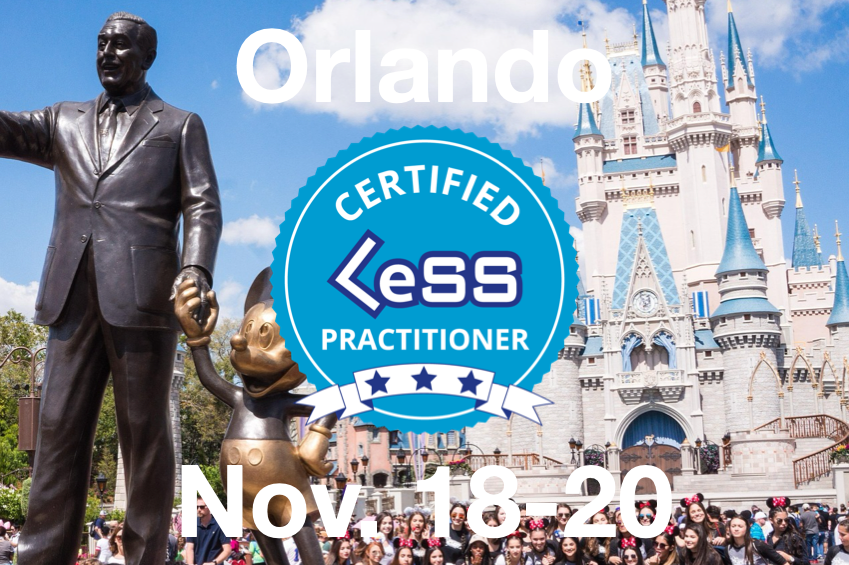
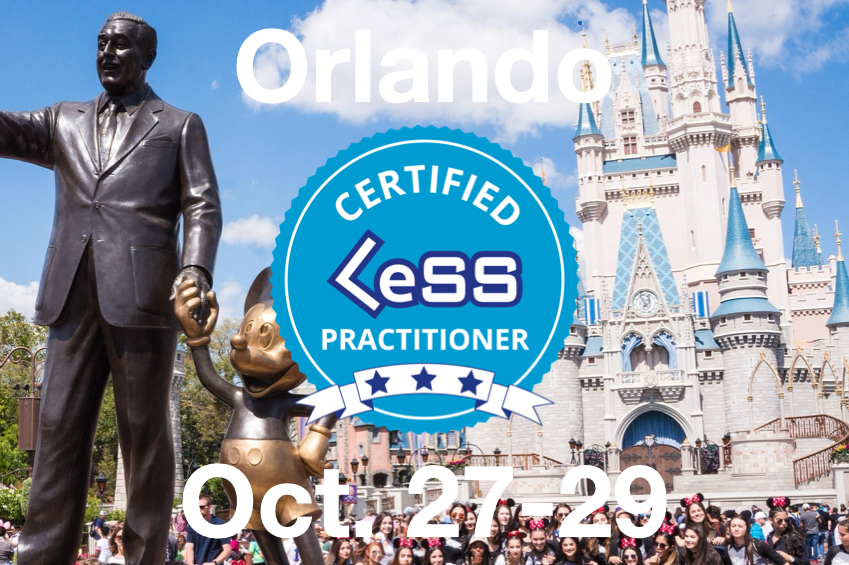
went live with Orlando

Changed region(s): [[0.2144, 0.8124, 0.6125, 0.9628], [0.6431, 0.8124, 0.7962, 0.9628]]

diff --git a/clp/orlando_fall_2025.md b/clp/orlando_fall_2025.md
@@ -1,18 +1,18 @@
 ---
-title: Orlando Certified LeSS Practitioner November 18-20, 2025
+title: Orlando Certified LeSS Practitioner October 27-29, 2025
 image: /assets/images/clp/OrlandoCLPWebsitePageHeaderNoDates.png
-ogimage: /assets/images/clp/OrlandoCLPWebsitePageHeaderNov18to20_OgImage.png
+ogimage: /assets/images/clp/OrlandoCLPWebsitePageHeaderOct27to29_OgImage.png
 author: James
 layout: book
 trainingevent:
-  startDate: "2025-11-18T08:30-05:00"
-  endDate: "2025-11-20T18:00-05:00"
+  startDate: "2025-10-27T08:30-05:00"
+  endDate: "2025-10-29T18:00-05:00"
   location:
-    name: "TBD"
+    name: "Signa by Hilton"
     address:
-      streetAddress: "TBD"
+      streetAddress: "14100 Bonnet Creek Resort Ln"
       addressLocality: "Orlando"
-      postalCode: "32830"
+      postalCode: "32821"
       addressRegion: "FL"
       addressCountry: "US"
   images:
@@ -31,7 +31,7 @@ trainingevent:
     url: "https://agilecarpentry.com"
 ---
 
-<a class="wx-button" href="https://agilecarpentry.ticketspice.com/orlando-fall-2025" style="background:rgba(36,36,36,1);color:white;padding:10px 20px;text-decoration:none;font-weight:bold;" target="_blank">November 18-20: Get Tickets</a>
+<a class="wx-button" href="https://agilecarpentry.ticketspice.com/orlando-fall-2025" style="background:rgba(36,36,36,1);color:white;padding:10px 20px;text-decoration:none;font-weight:bold;" target="_blank">October 27-29: Get Tickets</a>
 
 {% include_relative _includes/course_agenda.md %}
 
@@ -48,39 +48,45 @@ Here are a few useful logistics links regarding getting to Disney World.
 
 * [Brightline to Orlando](https://www.gobrightline.com/train-stations/fl/orlando){:target="_blank"}
 
-* [Hyatt Regency Orlando International Airport](https://www.hyatt.com/hyatt-regency/en-US/orlan-hyatt-regency-orlando-international-airport){:target="_blank"} is the on-terminal hotel at MCO. This can be very useful if you have a very late flight in, or a very early flight out.
+* [Hyatt Regency Orlando International Airport](https://www.hyatt.com/hyatt-regency/en-US/orlan-hyatt-regency-orlando-international-airport){:target="_blank"} is the on-terminal hotel at MCO. This can be very useful if you have a very late flight in, or a very early flight out. This is NOT THE EVENT VENUE.
 
 
 # Training Venue Details
 
-I have reserved a hospitality suite at the [Swan Hotel](https://swandolphin.com/){:target="_blank"}, 1200 Epcot Resorts Blvd, Lake Buena Vista, FL 32830. 
+I have reserved a large hospitality suite at the [Signa by Hilton Orlando Bonnet Creek Hotel](https://www.hilton.com/en/hotels/orlhhsa-signia-by-hilton-orlando-bonnet-creek/){:target="_blank"} in which to host the course. The hotel address is 14100 Bonnet Creek Resort Ln, Orlando, FL, 32821.
 
-The Swan (Westin), Dolphin (Sheraton), and Reserve (Autograph Collection) hotel complex is extremely well located within Disney World, while still having hotel room prices which remain respectful of company expense policies. They are included in the [Extended Evening Theme Park Hours](https://disneyworld.disney.go.com/guest-services/extended-evening/){:target="_blank"} program, just like the Disney owned "Deluxe" hotels.
+The Signa is an Official DisneyWorld Hotel, with regular [shuttle service to the Disney World](https://www.hilton.com/en/hotels/orlhhsa-signia-by-hilton-orlando-bonnet-creek/disney/){:target="_blank"}, as well as [Early Theme Park Entry](https://disneyworld.disney.go.com/guest-services/early-entry/){:target="_blank"}.
 
-Some of the Disney owned "Deluxe" hotels such as the [Grand Floridian](https://disneyworld.disney.go.com/resorts/grand-floridian-resort-and-spa/){:target="_blank"} are better placed for visiting the Magic Kingdom park. Yet, the nightly prices are far outside of most expense policies. The [Disney World Transportation Map](https://magicguides.com/disney-world-transportation-map/){:target="_blank"} provides a good overview of how to travel between the various areas within Disney World.
+# Hurricanes and Travel Planning
 
-## Relocation Strategy
+The [balmy fall weather](https://en.wikipedia.org/wiki/Orlando,_Florida#Climate){:target="_blank"} is accompanied by the risk a hurricane will show up and require rescheduling the course.
 
-The hospitality suite will provide enough capacity to support the first five or six attendees, at which point I will cancel the hospitality suite and book a larger event space. 
+I suggest you book your hotel room early to secure a better price, while making sure your hotel room can be canceled with only a few days notice.
 
-My strong intention is to keep any larger event space within the Swan, Dolphin, Reserve hotel complex. This assumes relevant cost effective space remains available by the time there are enough attendees to need it. 
+# Shoulder Booking To Visit Disney World
 
-Since there is a non-zero chance I will need to relocate the course to another hotel, I recomend you only book hotel room reservations which can be canceled without penalty. Since hotel room prices are likely to rise quickly, I still suggest you book your room early.
+I expect many attendees will decide to extend their stay through the weekend so they can spend some time at [Disney World](https://disneyworld.disney.go.com/){:target="_blank"} and/or [Universal Studios](https://www.universalorlando.com/){:target="_blank"}. This is why I scheduled the course at the beginning of the week, rather than mid-week.
 
-If I am forced to relocate the event, it is very likely we will end up at one of the Disney Springs or Bonnet Creek hotels. For example, the [Hilton Orlando Vista Disney Springs](https://www.hilton.com/en/hotels/mcobuhh-hilton-orlando-buena-vista-palace/){:target="_blank"}, and [Signa by Hilton Orlando Bonnet Creek](https://www.hilton.com/en/hotels/orlhhsa-signia-by-hilton-orlando-bonnet-creek/){:target="_blank"}are reasonable alternative venues.
+Alhough the Signa is a very nice [Official Walt Disney World Hotel](https://www.hilton.com/en/hotels/orlhhsa-signia-by-hilton-orlando-bonnet-creek/disney/){:target="_blank"}, guests do not have access to the [Extended Evening Hours](https://disneyworld.disney.go.com/guest-services/extended-evening/){:target="_blank"} enjoyed by guests of the extremely expensive "Deluxe" category of Disney owned hotels. But, the Marriott operated [Swan (Westin), Dolphin (Sheraton), and Reserve (Autograph)](https://swandolphin.com/){:target="_blank"} hotels do!
+
+I suggest staying at the [Signa by Hilton Orlando Bonnet Creek](https://www.hilton.com/en/hotels/orlhhsa-signia-by-hilton-orlando-bonnet-creek/){:target="_blank"} from Sunday night to Wednesday morning when attending the course.
+
+From Wednesday night onwards, you may wish to consider shifting to the [Swan (Westin), Dolphin (Sheraton), or Reserve (Autograph)](https://swandolphin.com/){:target="_blank"}, or splurging on one of the [Disney Deluxe](https://disneyworld.disney.go.com/resorts/#/deluxe){:target="_blank"} hotels from Wednesday night onwards. This will put you slightly closer to the Walt Disney World parks, and most importantly will grant you access to [Extended Evening Hours](https://disneyworld.disney.go.com/guest-services/extended-evening/){:target="_blank"} at the Disney parks.
+
+The [Disney World Transportation Map](https://magicguides.com/disney-world-transportation-map/){:target="_blank"} shows the relative locations of the various hotels to the Disney World parks (Magic Kingdom, Epcot, Hollywood Studios, Animal Kingdom, and Typhoon Lagoon).
 
 
 # Meals
 
 Lunch will be arranged, but will not necessarily be included in the price of course until it becomes viable to do so. This helps to assure that I can run the course at as low of a break-even attendee threshold as possible.
 
-We will most likely be walking to pre-arranged lunches at nearby table service restaurants. This will provide a better social experience for everyone, and allow us to spend some time outside of the event space.
+We will most likely be walking to pre-arranged lunches at the on-property table service restaurants. This will provide a better social experience for everyone, and allow us to spend some time outside of the event space.
 
 Participant feedback indicates that the ability to provide assurance the course will reach viability sooner, tends to be more important to attendees than whether or not they will need to have their employer pay for lunch.
 
 # Tickets
 
-<a class="wx-button" href="https://agilecarpentry.ticketspice.com/orlando-fall-2025" style="background:rgba(36,36,36,1);color:white;padding:10px 20px;text-decoration:none;font-weight:bold;" target="_blank">November 18-20: Get Tickets</a>
+<a class="wx-button" href="https://agilecarpentry.ticketspice.com/orlando-fall-2025" style="background:rgba(36,36,36,1);color:white;padding:10px 20px;text-decoration:none;font-weight:bold;" target="_blank">October 27-29: Get Tickets</a>
 
 
 

diff --git a/_posts/2023-09-17-learning-about-less.md b/_posts/2023-09-17-learning-about-less.md
@@ -90,4 +90,5 @@ If it makes sense, I can arrange a call with "Mitya" in my case study. I am grat
 
 * [Dallas Certified LeSS Practitioner on February 4-6]({{site.baseurl}}/clp/dallas_spring_2025/){:target="_blank"}
 * [Chicago Certified LeSS Practitioner on June 10-12]({{site.baseurl}}/clp/chicago_summer_2025/){:target="_blank"}
+* [Orlando Certified LeSS Practitioner on October 27-29]({{site.baseurl}}/clp/orlando_fall_2025/){:target="_blank"}
 
